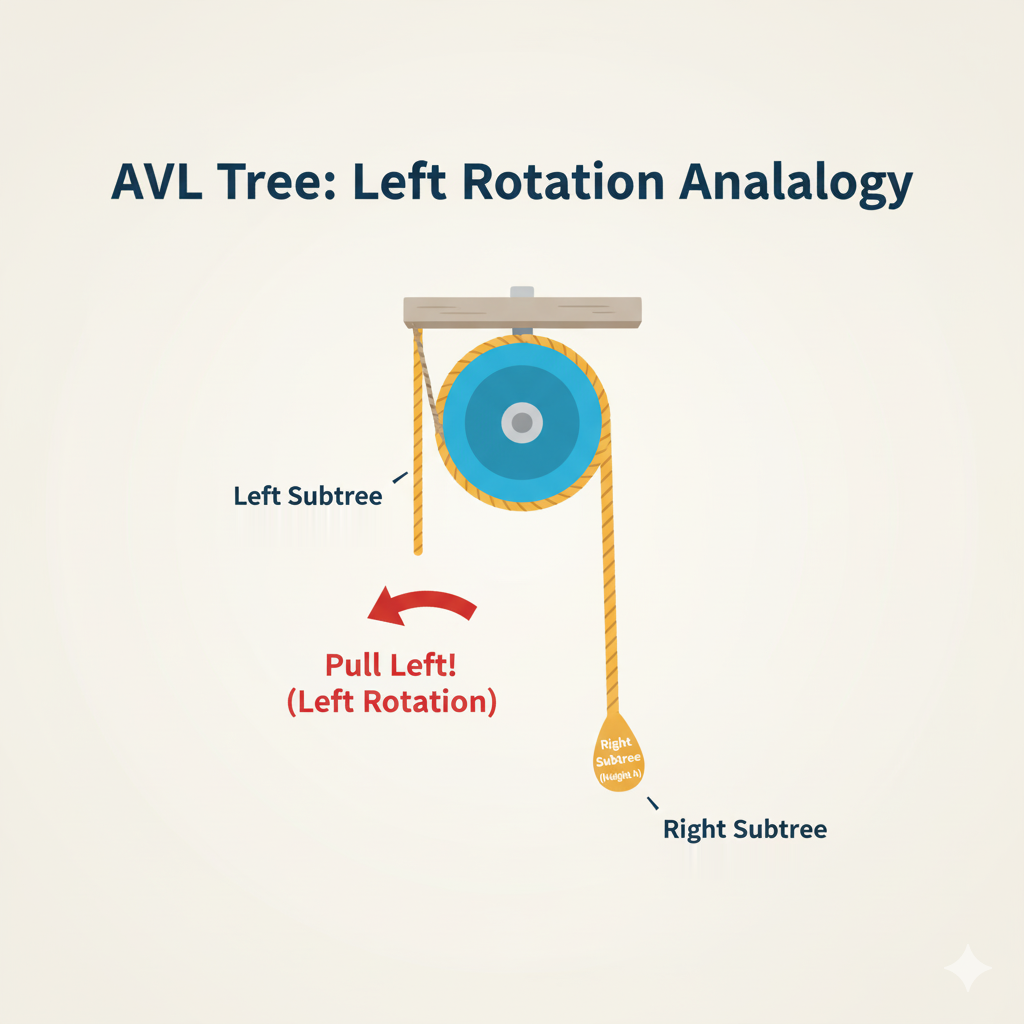
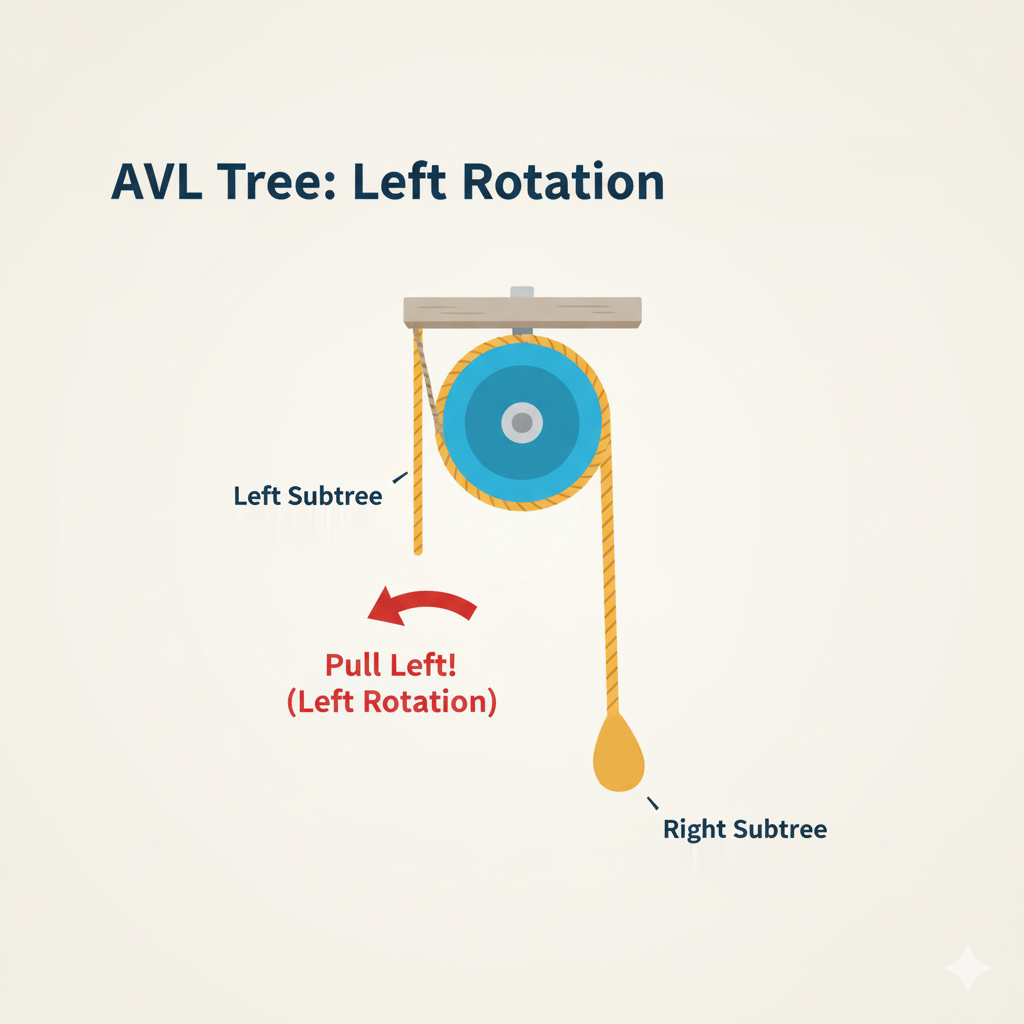
docs(WIP): add balance factor calculation and expand AVL rotation explanations | 15binarySearchTreesBSTBalance.md | A part of the data structures. Reference: Coursera: UC San Diego:  Data Structures: Module 05: Binary Search Trees
- Add balance factor formula and calculation method for AVL trees
- Expand left rotation section with RR-rotation terminology and additional diagram
- Enhance right rotation section with LL-rotation naming convention and dense tree example
- Include balance factor diagrams for better visual understanding
- Add placeholder for pulley analogy completion

Took 50 minutes

Changed region(s): [[0.6562, 0.1562, 0.9062, 0.2188], [0.5625, 0.7188, 0.625, 0.7812]]

diff --git a/docs/dataStructures/courses/uc/module05binarySearchTrees/15binarySearchTreesBSTBalance.md b/docs/dataStructures/courses/uc/module05binarySearchTrees/15binarySearchTreesBSTBalance.md
@@ -289,11 +289,32 @@ $$
 * It means that the maximum height of an AVL-Tree is $log(n)$. 
 * Next, we will see how to maintain the AVL-Tree property through the "rotation" technique.
 
+## How do we find (calculate) which side is more weighted?
+
+* We use the "height" property of a node to measure and fix the balance.
+* The formula (AVL-Tree Property) is:
+
+$$
+| \text{Balance Factor} | = | \text{Height Of A Left-Subtree} - \text{Height Of A Right-Subtree} |
+$$
+
+* And we want to ensure that:
+
+$$
+| \text{Balance Factor} | <= 1
+$$
+
 ## AVL-Tree Basic Left Rotation Idea
 
 * When we have an excessive right-subtree, we perform the left-rotation.
+* It is also known as "RR-Rotation (Right of right rotation)".
+* Because it happens when the right of right node causes the imbalance.
+* So, the name "RRR" is based upon the root cause of the rotation.
+* And to fix that, we perform the "Left Rotation."
 
 ![210avlBasicLeftRotation.png](../../../../../assets/images/dataStructures/uc/module05binarySearchTreesBST/210avlBasicLeftRotation.png)
+
+![215avlBasicLeftRotationWithBf.png](../../../../../assets/images/dataStructures/uc/module05binarySearchTreesBST/215avlBasicLeftRotationWithBf.png)
 
 * We can understand this with an analogy of a pulley.
 
@@ -306,8 +327,14 @@ $$
 ## AVL-Tree Basic Right Rotation Idea
 
 * When we have an excessive left-subtree, we perform the right-rotation.
+* We also call it "LL-Rotation."
+* Because it happens when the left of left node causes the imbalance.
+* So, remember that the name "LLR" is based upon the root cause of the imbalance.
+* And to fix it, we perform "Right Rotation."
 
 ![220avlBasicRightRotation.png](../../../../../assets/images/dataStructures/uc/module05binarySearchTreesBST/220avlBasicRightRotation.png)
+
+![225avlBasicRightRotationWithBf.png](../../../../../assets/images/dataStructures/uc/module05binarySearchTreesBST/225avlBasicRightRotationWithBf.png)
 
 * We can understand this with an analogy of a pulley.
 
@@ -316,6 +343,14 @@ $$
 * When the left-side is more weighted, we pull the right-side to maintain the balance.
 
 ![245avlTreeRightRotaionAnalogyPulley.png](../../../../../assets/images/dataStructures/uc/module05binarySearchTreesBST/245avlTreeRightRotaionAnalogyPulley.png)
+
+* Now, we can take an example of a dense tree.
+
+![270avlTreeRightRotationDenseExample.png](../../../../../assets/images/dataStructures/uc/module05binarySearchTreesBST/270avlTreeRightRotationDenseExample.png)
+
+* Again, we can visualize and understand it better with the pulley analogy. 
+
+//ToDo: Pulley: Left-side extra thread-branch (Br) goes to the right-side 
 
 ## AVL-Tree Basic Left-Right Rotation Idea
 
